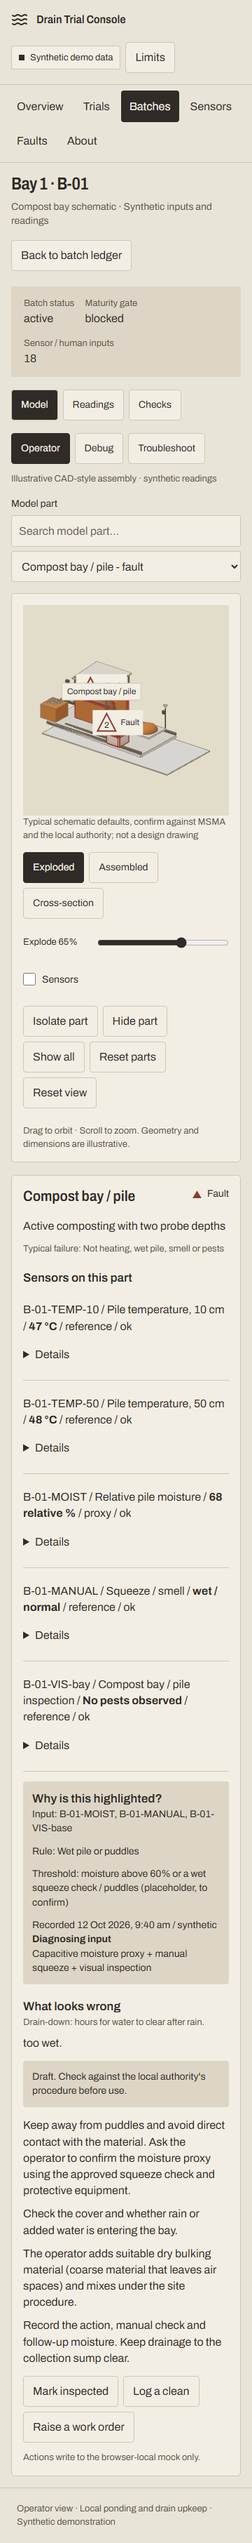
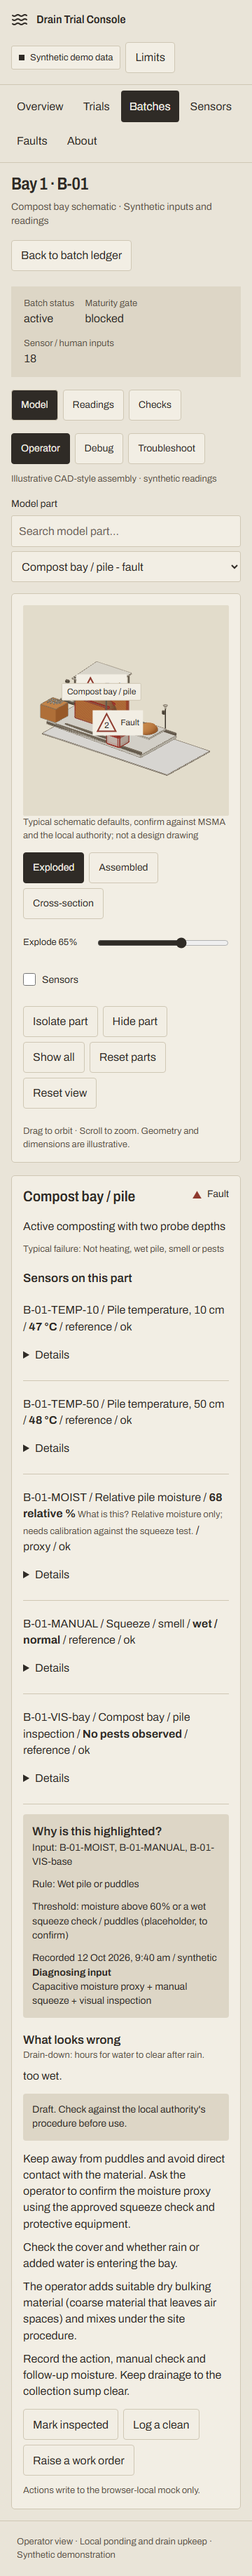
Clarify proxy readings and inspection limits

diff --git a/app/src/components/BatchReadingForm.tsx b/app/src/components/BatchReadingForm.tsx
@@ -54,9 +54,12 @@ export default function BatchReadingForm({
               min="0"
               max="100"
               step=".1"
+              aria-label="Moisture, %"
+              aria-describedby={`moisture-help-${batch.id}`}
               value={moisture}
               onChange={(e) => setMoisture(e.target.value)}
             />
+            <span className="field-note" id={`moisture-help-${batch.id}`}>What is this? A relative wetness proxy. Calibrate with the human squeeze check; this is not an absolute water-content measurement.</span>
           </label>
         </div>
         <PhotoSlot label="Reading photo, optional" value={photo} onChange={setPhoto} />
@@ -70,7 +73,7 @@ export default function BatchReadingForm({
         )}
       </form>
       <div className="notice">
-        General guidance, confirm for tropical conditions. Temperature: {config.temperature.goodMin}
+        Illustrative thresholds (placeholders, to confirm for tropical conditions). Temperature: {config.temperature.goodMin}
         –{config.temperature.goodMax} °C for {config.temperature.days}+ days; turn below{' '}
         {config.temperature.turnBelow} °C, cool above {config.temperature.coolAbove} °C. Moisture:{' '}
         {config.moisture.min}–{config.moisture.max}%.
@@ -91,6 +94,7 @@ export default function BatchReadingForm({
       )}
       <hr className="divider" />
       <h3>Reading history · synthetic</h3>
+      <p className="small">All moisture values below are relative wetness proxies; compare with the human squeeze check.</p>
       <table>
         <thead>
           <tr>
@@ -104,7 +108,7 @@ export default function BatchReadingForm({
             <tr key={i}>
               <td>{dateTime(r.t)}</td>
               <td>{r.tempC}</td>
-              <td>{r.moisturePct}%</td>
+              <td><span title="Relative wetness proxy; calibrate with the human squeeze check">{r.moisturePct}%</span></td>
             </tr>
           ))}
         </tbody>

diff --git a/app/src/pages/About.tsx b/app/src/pages/About.tsx
@@ -46,6 +46,7 @@ export default function About() {
           </li>
         </ul>
         <h2>Schematic and sensor limits</h2>
+        <p>The optional S1 storm preview is an illustrative storage simulation, independent of sensor readings. Its exaggerated water depth is not a flood forecast. Highlighted parts identify recorded faults or suspect inputs; a highlight does not establish a cause. Draft repair steps require the local authority's procedure and a trained operator. Field re-tests remain manual.</p>
         <p>
           The household map uses OpenStreetMap footprints and roads for a Gamelan / Rodat window in
           Bandar Bukit Raja Phase 1. It is not the complete phase boundary. Heights, roofs, pilot

diff --git a/app/src/components/PlanMap.tsx b/app/src/components/PlanMap.tsx
@@ -172,9 +172,7 @@ export default function PlanMap({
                 <title>
                   {s.sensorId} · {s.status} · {s.metric}
                 </title>
-                {s.status === 'suspect' ? (
-                  <path d="M0 -5L5 4H-5Z" fill="var(--heat-3)" />
-                ) : s.status === 'offline' ? (
+                {s.status === 'suspect' || s.status === 'offline' ? (
                   <path d="M0 -5L5 0L0 5L-5 0Z" fill="var(--ink2)" />
                 ) : (
                   <rect x="-3" y="-3" width="6" height="6" fill="var(--ink)" />

diff --git a/app/src/pages/Faults.tsx b/app/src/pages/Faults.tsx
@@ -126,7 +126,7 @@ export default function Faults() {
                   <td>
                     <Status
                       status={
-                        f.type === 'sensor_offline'
+                        (f.type === 'sensor_offline' || f.type === 'sensor_suspect')
                           ? 'offline'
                           : f.type === 'standing_water'
                             ? 'watch'

diff --git a/app/src/pages/Overview.tsx b/app/src/pages/Overview.tsx
@@ -97,7 +97,7 @@ export default function Overview() {
                   >
                     <Status
                       status={
-                        f.type === 'sensor_offline'
+                        (f.type === 'sensor_offline' || f.type === 'sensor_suspect')
                           ? 'offline'
                           : f.type === 'standing_water'
                             ? 'watch'

diff --git a/app/src/components/SensorInfo.tsx b/app/src/components/SensorInfo.tsx
@@ -22,6 +22,7 @@ export function SensorValue({ sensor }: { sensor: Sensor }) {
           (sensor.lastValue === null
             ? 'Not measured'
             : `${Math.round(sensor.lastValue * 100) / 100} ${sensor.unit}`))}
+      {sensor.role === 'proxy' && <span className="proxy-note"> What is this? {sensor.proxyFor}.</span>}
     </>
   );
 }

diff --git a/app/src/styles.css b/app/src/styles.css
@@ -1,4 +1,5 @@
 @import 'tailwindcss';
+.proxy-note { display: inline; font-size: 13px; font-weight: 400; color: var(--ink2); }
 .compost-tabs { margin-bottom: 18px; }
 .compost-tabs [aria-selected='true'] { background: var(--ink); color: var(--panel); }
 [role='tabpanel'][hidden] { display: none; }
